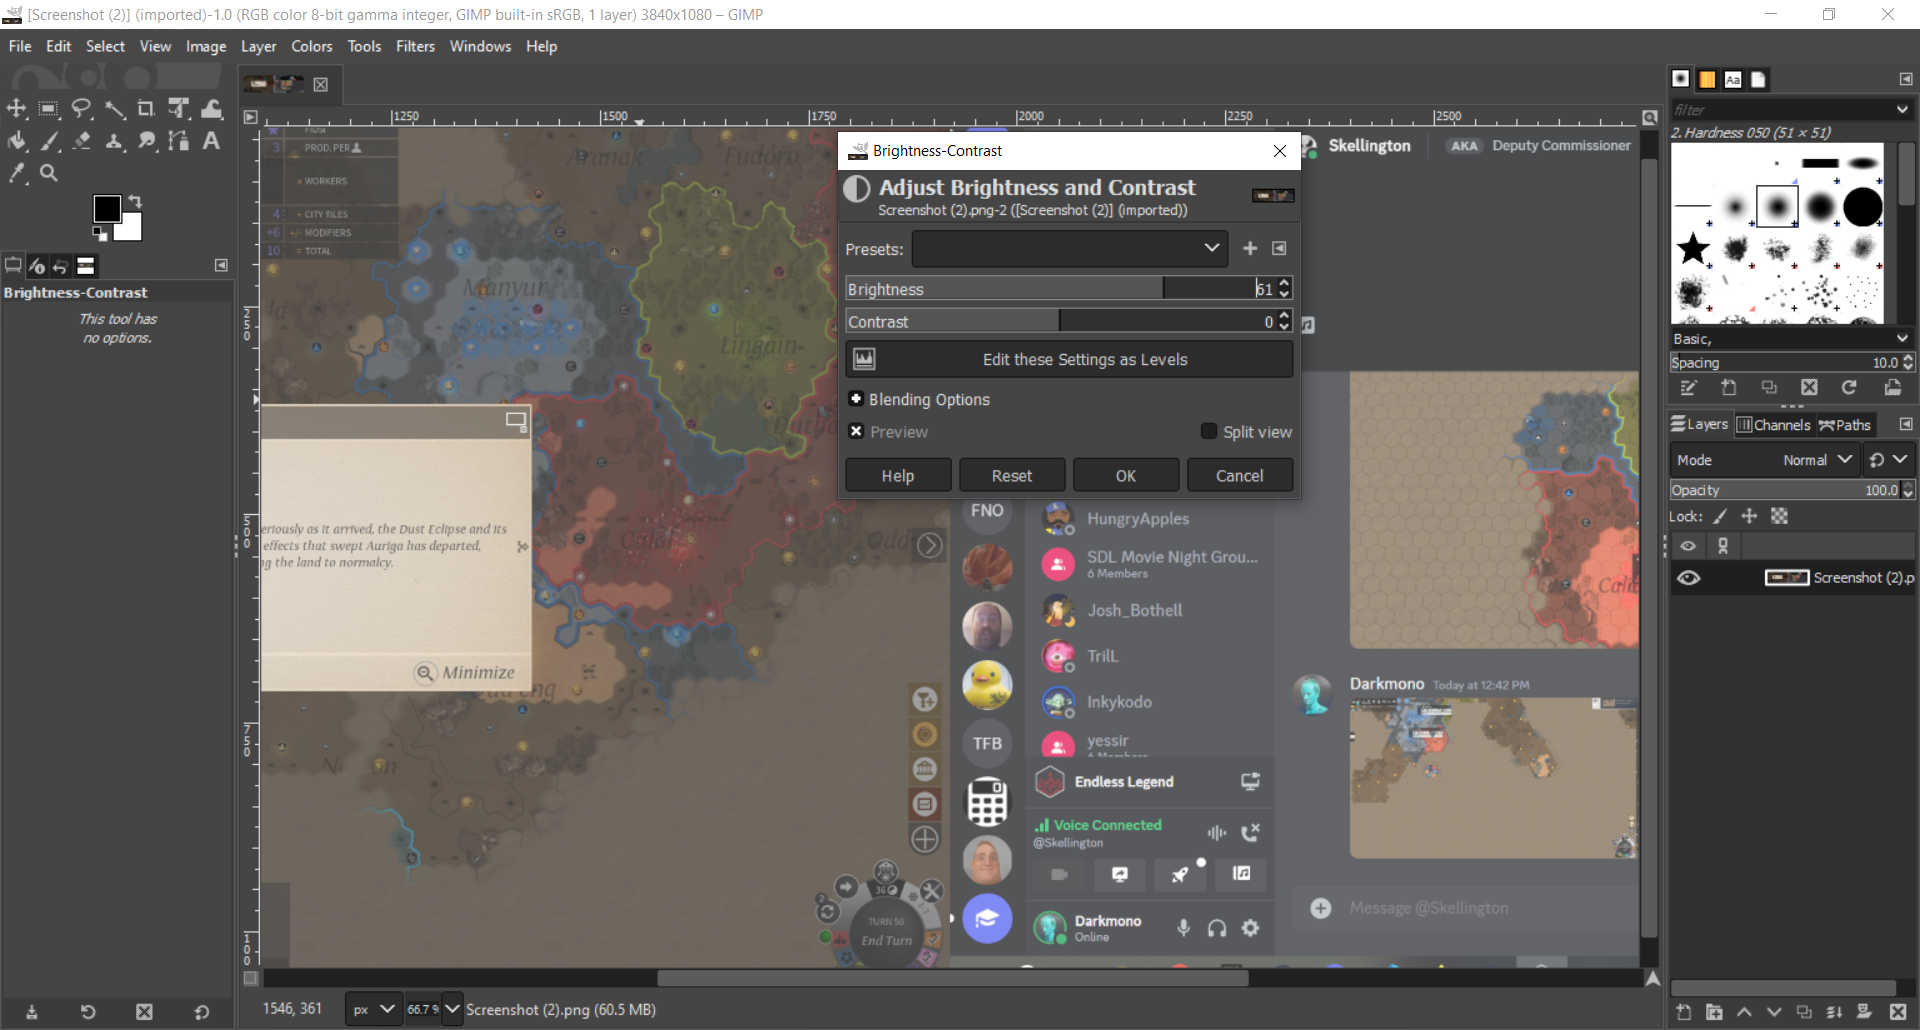
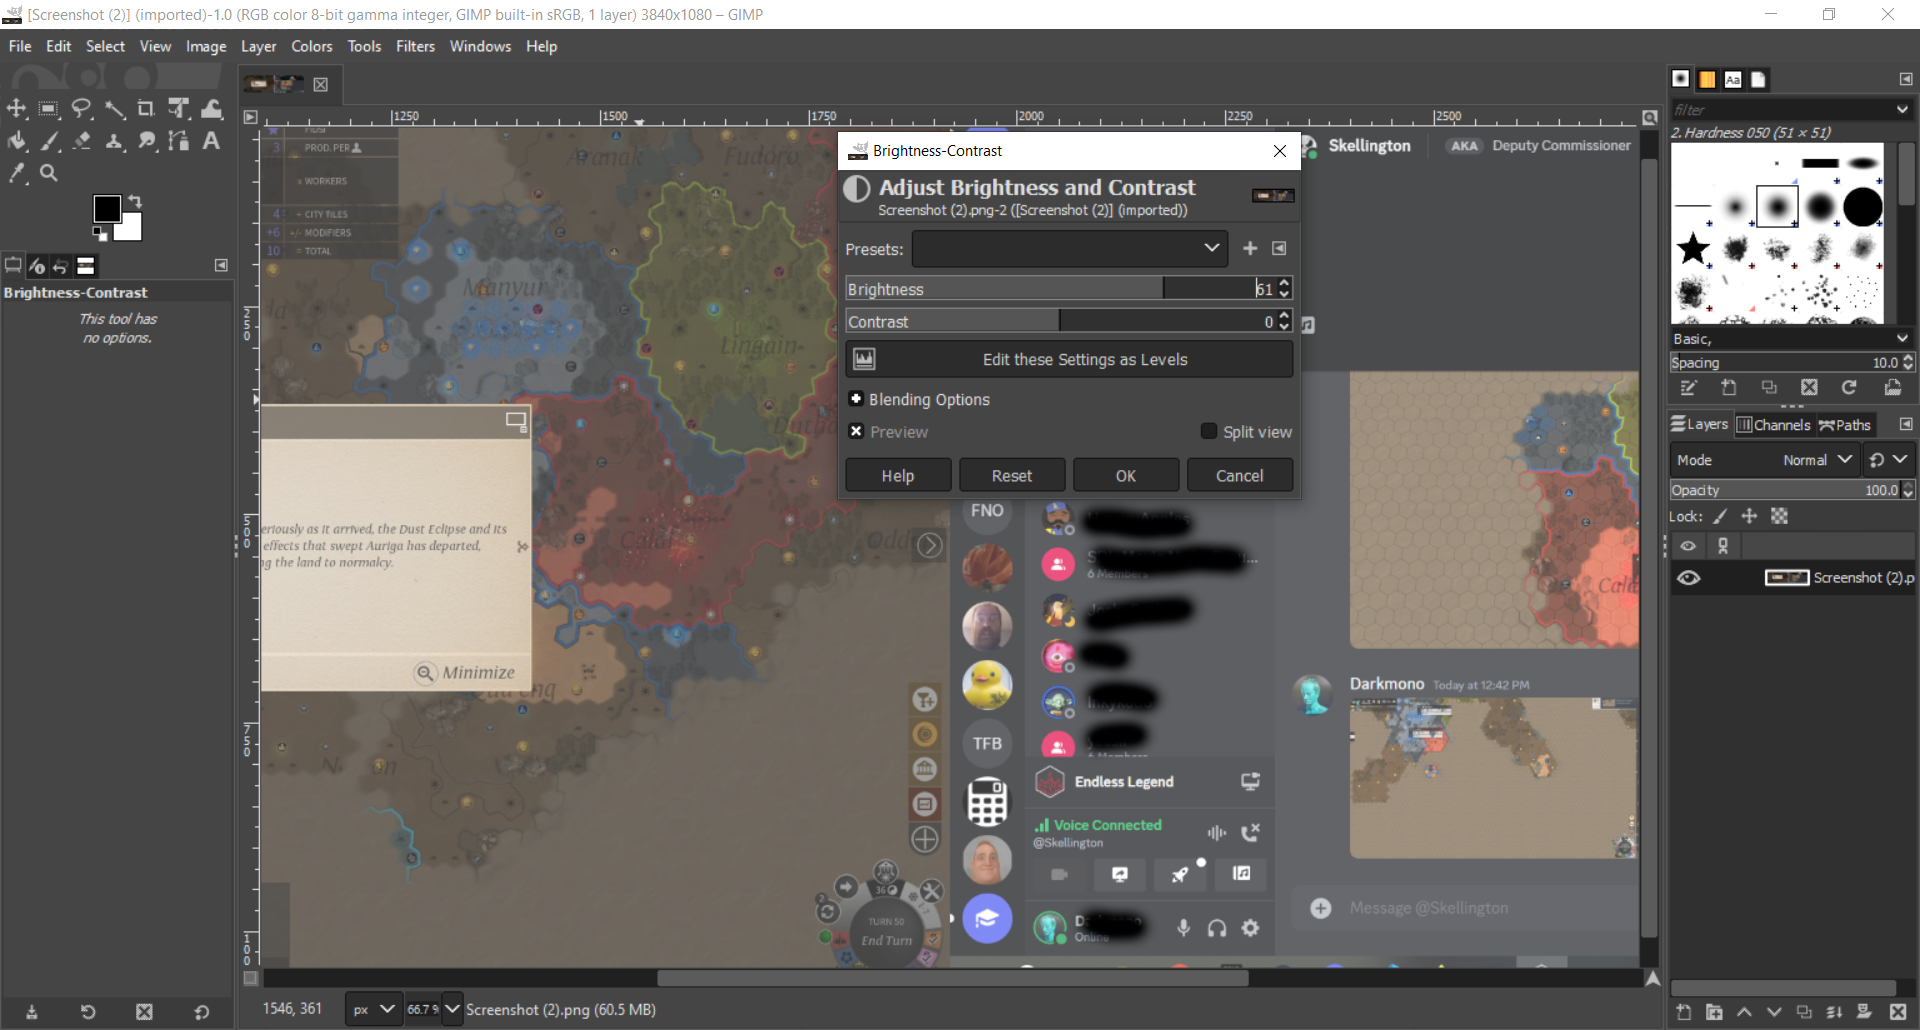
Started Reference, finished tools

Changed region(s): [[0.5625, 0.466, 0.6562, 0.7456], [0.5625, 0.8699, 0.5938, 0.932]]

diff --git a/Color Tools/BrightnessContrastTool.md b/Color Tools/BrightnessContrastTool.md
@@ -45,7 +45,8 @@ To change the brightness of an image, open the tool and use the Brightness bar. 
 
 ![](../images/BrightnessBar.PNG)
 
-Here is an image before adjusting Brightness
+The Following Image is a screen shot of a users desktop while enjoying a game. We will use this as an example of editing Brightness. (Note, the screenshot has mupltiple windows open on it and Usernames have been censored with black bars).
+
 ![](../images/BeforeBrightness.PNG)
 
 And After brightness has been incresed 
@@ -58,7 +59,7 @@ To change the contrast of an image, open the tool and use the Contrast bar. Cont
 
 ![](../images/ContrastBar.PNG)
 
-Here is an Image before changing the contrast 
+The Following Image is a screen shot of a users desktop while enjoying a game. We will use this as an example of editing Contrast.  (Note, the screenshot has mupltiple windows open on it and Usernames have been censored with black bars).
 
 ![](../images/BeforeBrightness.PNG)
 
